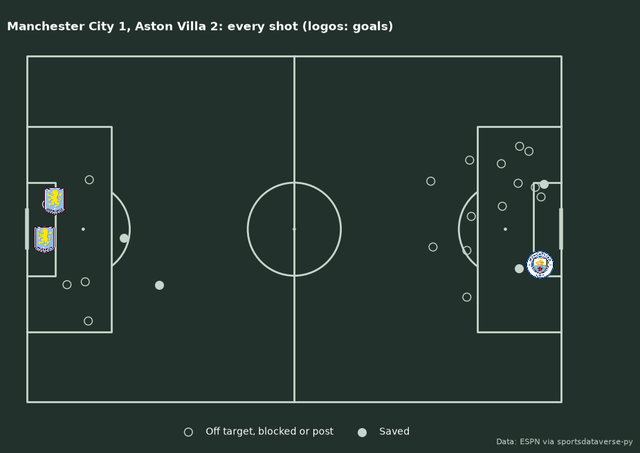
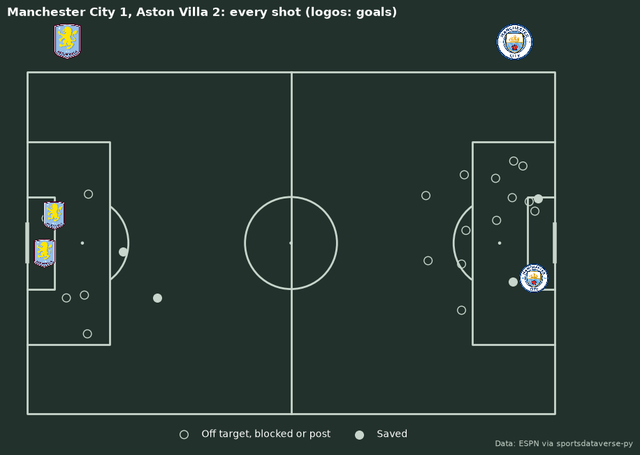
docs(cookbooks): soccer recipe crests sit above the pitch

diff --git a/docs/docs/cookbooks/surfaces-and-shot-charts.md b/docs/docs/cookbooks/surfaces-and-shot-charts.md
@@ -9,10 +9,11 @@ description: "Nine recipes for playing surfaces: every sport's surface in team c
 
 Ten recipes for playing surfaces and the charts drawn on them: `surface()` for every sport it supports, team
 colors and a center logo, NBA and WNBA shot charts from the stats-API shot files (converted with
-`court_coords`), a vertical half court, a hockey goal map, a baseball field and two soccer shot maps,
-one from ESPN and one from StatsBomb, both converted with `pitch_coords`. Surfaces are drawn by sportypy. The data is one season each from the NFL (nflverse), the NBA, WNBA and college
-basketball (hoopR, wehoop and the stats-API shot files the SportsDataverse publishes on GitHub), the NHL
-(fastRhockey) and the Premier League (ESPN), all through sportsdataverse-py; nothing calls stats.nba.com.
+`court_coords`), a vertical half court, a hockey goal map, a baseball field and two soccer shot maps, one from
+ESPN and one from StatsBomb, both converted with `pitch_coords`. Surfaces are drawn by sportypy. The data is
+one season each from the NFL (nflverse), the NBA, WNBA and college basketball (hoopR, wehoop and the stats-API
+shot files the SportsDataverse publishes on GitHub), the NHL (fastRhockey) and the Premier League (ESPN), all
+through sportsdataverse-py; nothing calls stats.nba.com.
 
 ```python
 import matplotlib.pyplot as plt
@@ -321,6 +322,7 @@ other = shots.filter(~pl.col("scoring_play") & (pl.col("type_text") != "Shot On 
 
 pitch = Pitch(pitch_type="impect", pitch_color="#22312b", line_color="#c7d5cc")
 fig, ax = pitch.draw(figsize=(10, 6.5))
+ax.set_ylim(-36, 44)  # headroom above the top touchline for the team crests
 pitch.scatter(other["pitch_x"], other["pitch_y"], s=70, facecolors="none", edgecolors="#c7d5cc", ax=ax,
               label="Off target, blocked or post")  # fmt: skip
 pitch.scatter(on_target["pitch_x"], on_target["pitch_y"], s=70, color="#c7d5cc", ax=ax, label="Saved")
